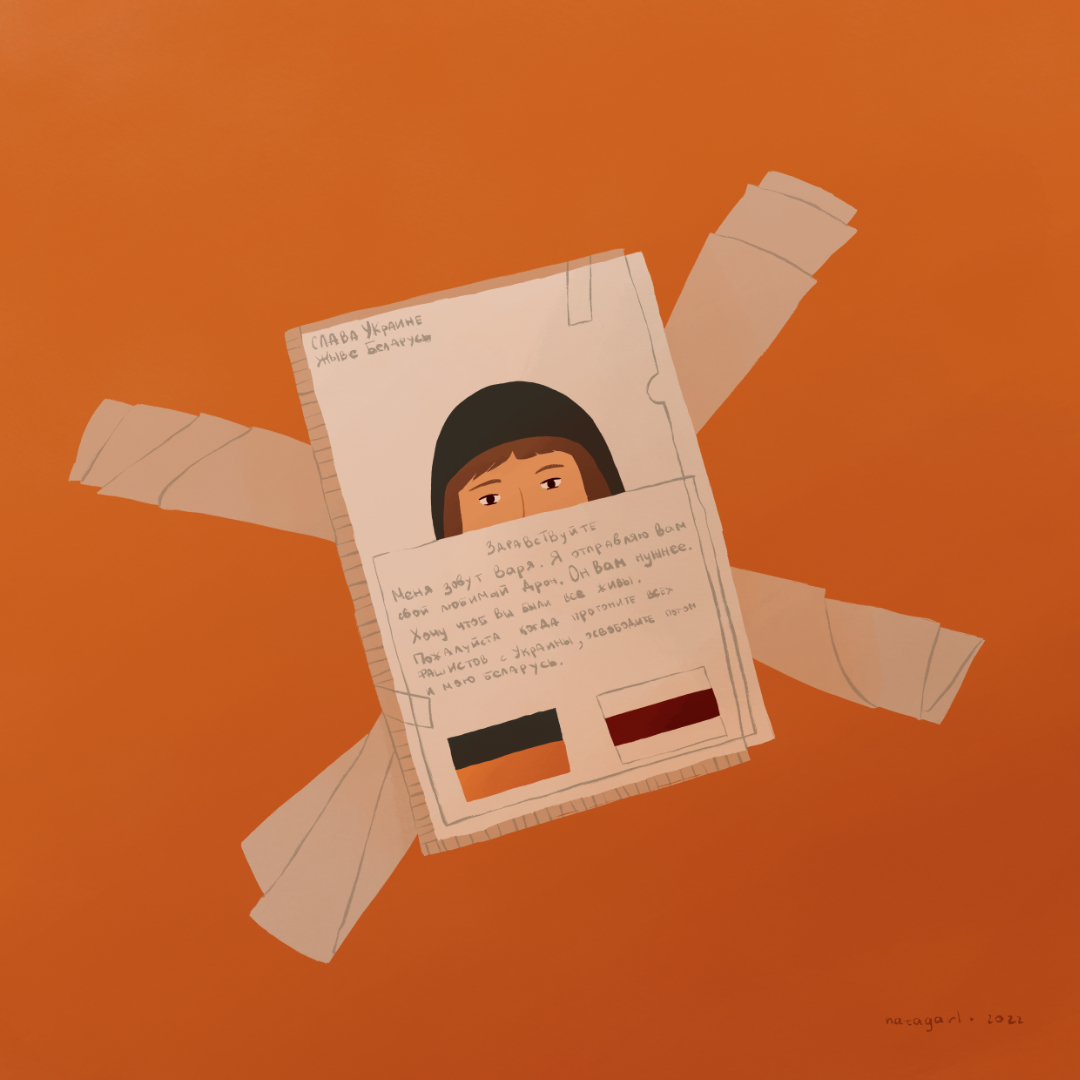
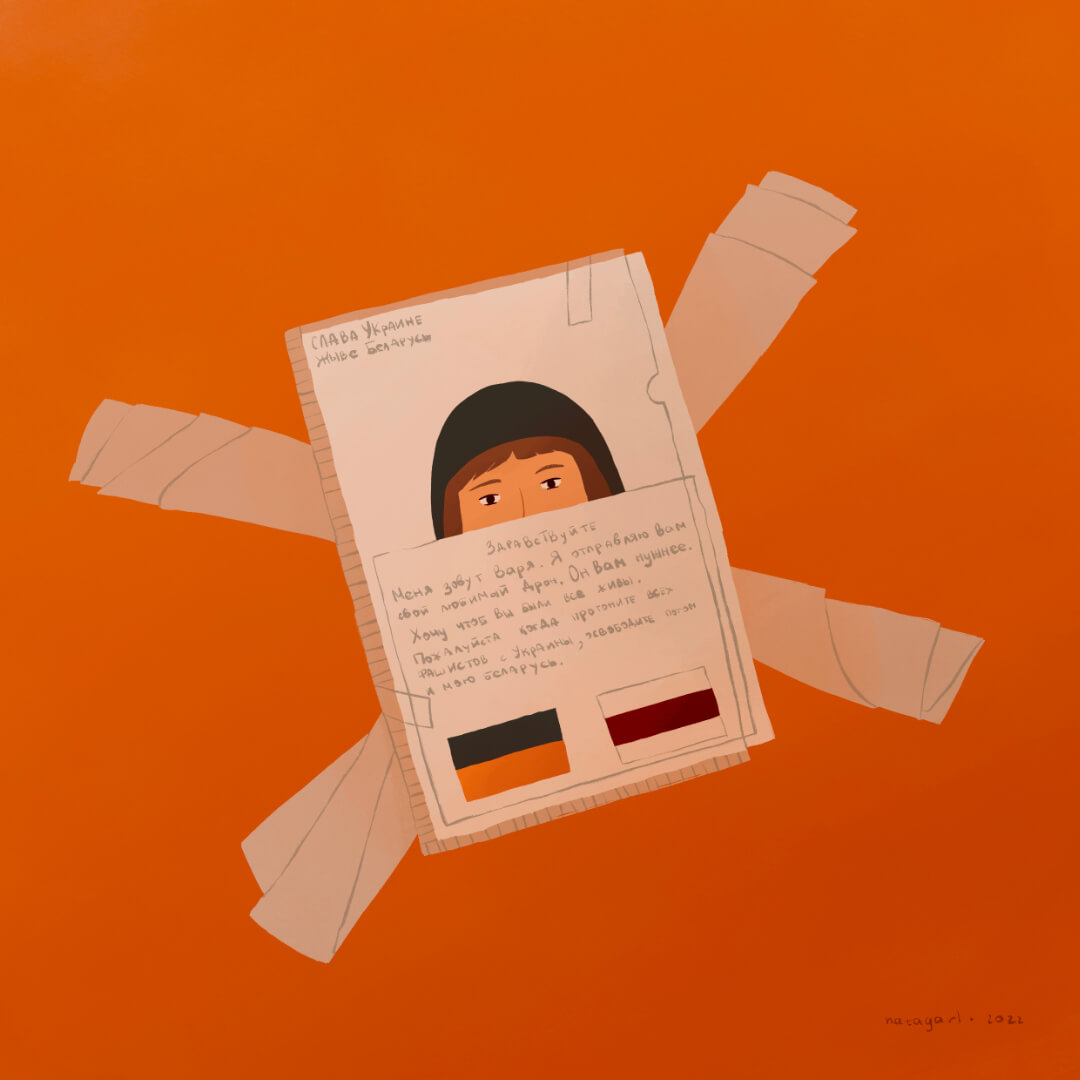
fix: reziz image files

diff --git a/index.html b/index.html
@@ -7,6 +7,8 @@
   <meta name="author" content="Natasha Garlukovich">
   <meta name="description" content="На Украіне ідзе вайна. Што робяць беларусы у гэты час па пунктах і ў карцінках.">
   <meta property="og:image" content="./images/preview-belarus-with-ukraine.jpg">
+  <meta property="og:image:height" content="538">
+  <meta property="og:image:width" content="1200">
   <link rel="stylesheet" href="./pages/index.css">
   <title>Што беларусы робяць</title>
   <link rel="icon" type="image/x-icon" href="./images/icon-belaruswithukraine.png">
